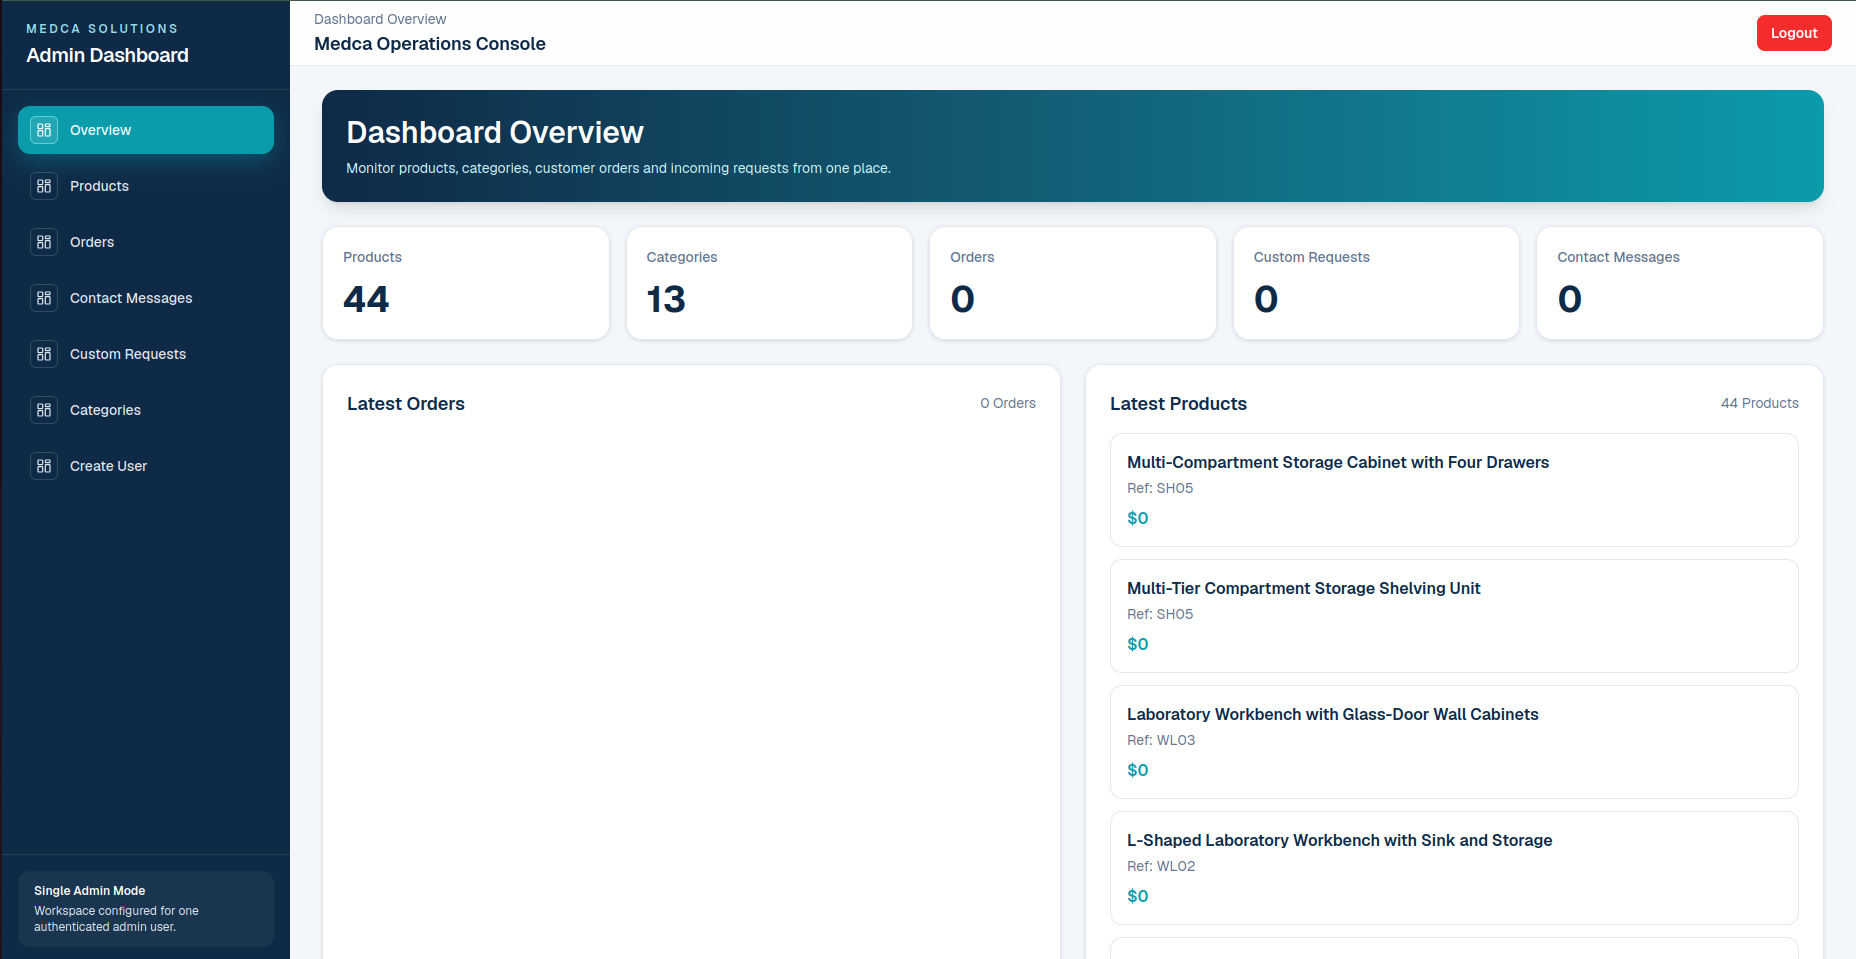
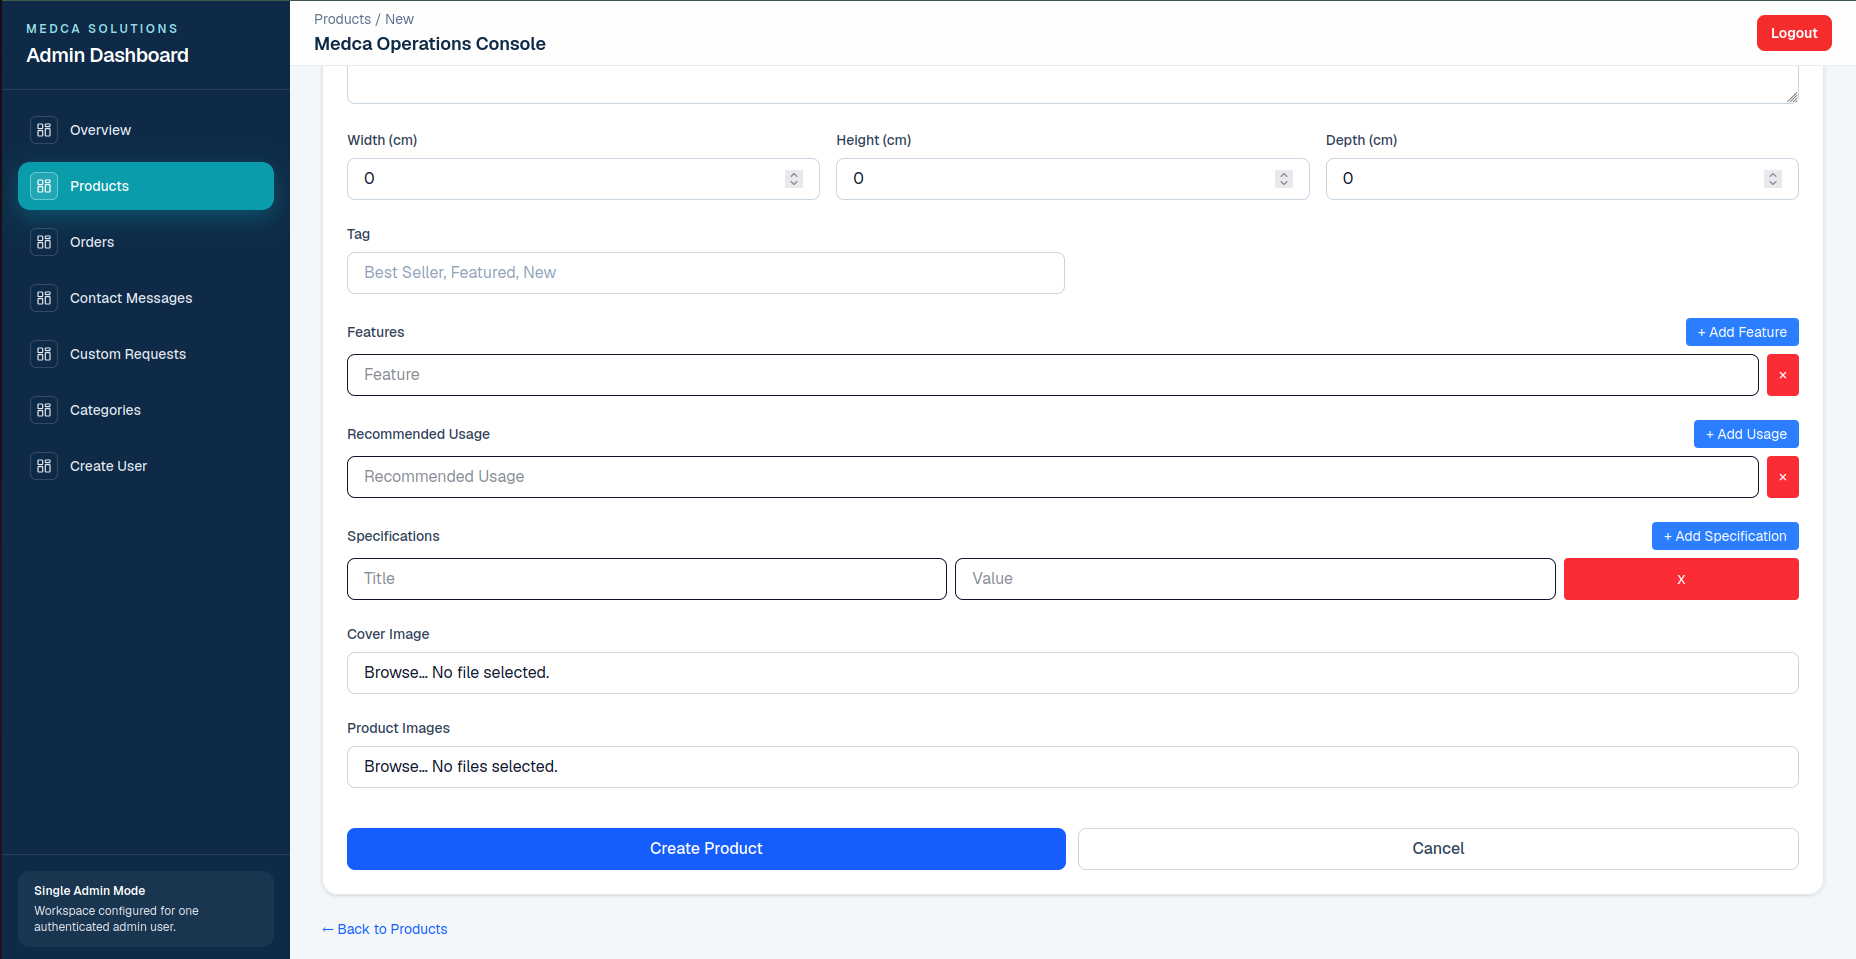
add new photo for a project

diff --git a/src/store/projectsStore.js b/src/store/projectsStore.js
@@ -82,7 +82,8 @@ const projectsData = [
     images: [
         "1.png",
         "2.png",
-        "3.png"
+        "3.png",
+        "4.png"
     ],
     tech: [
         "nodejs",
